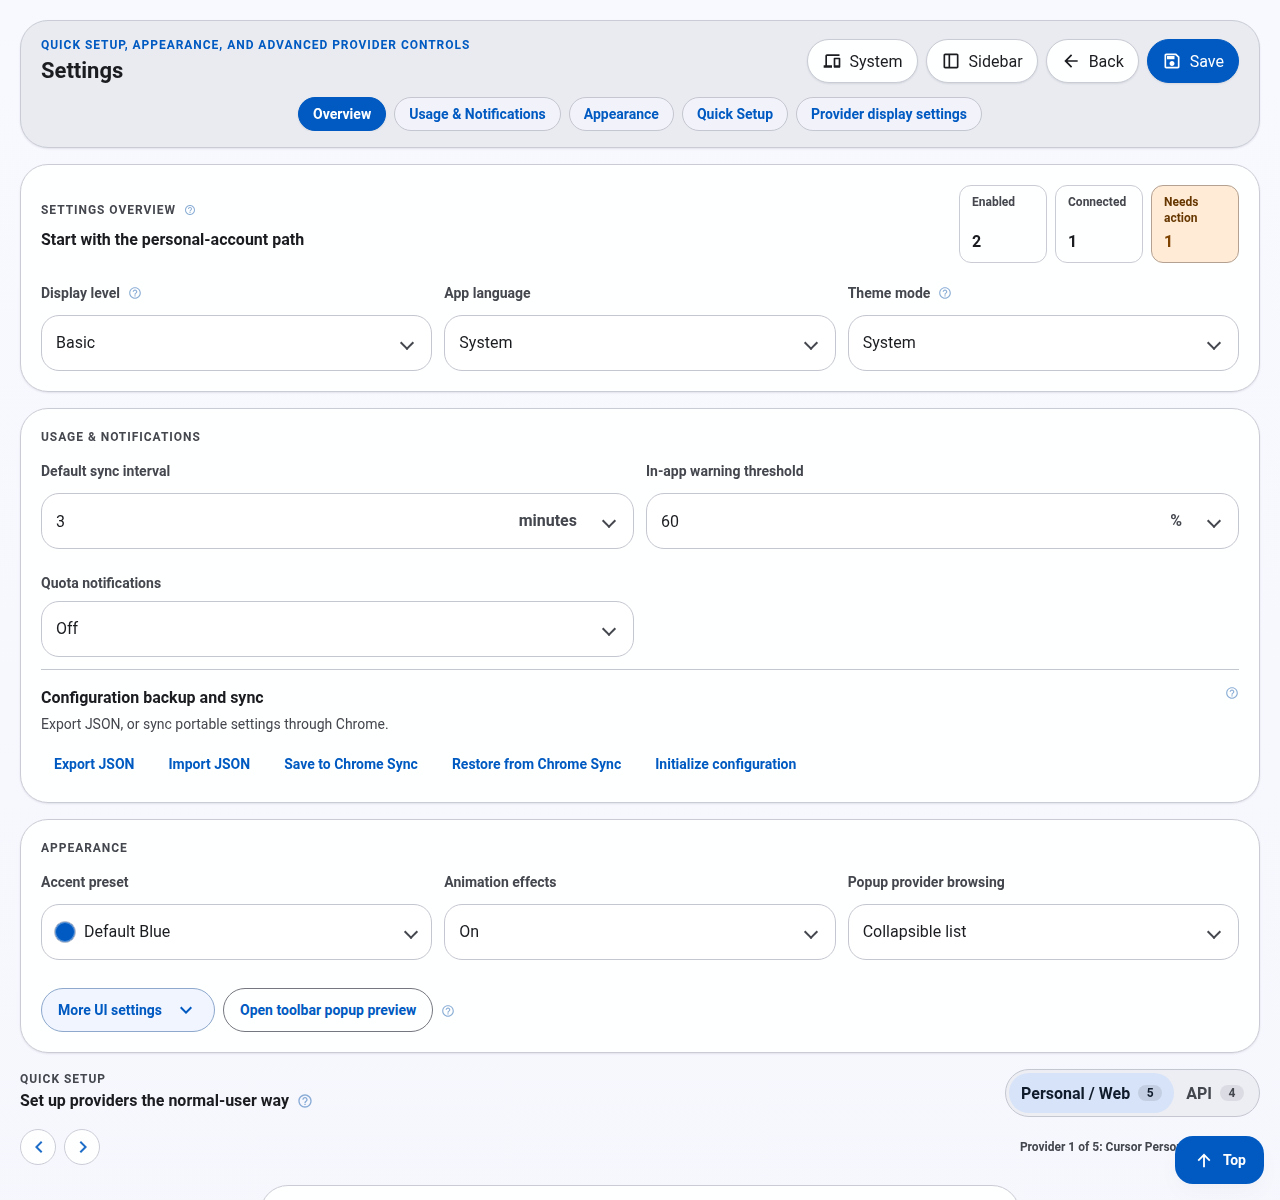
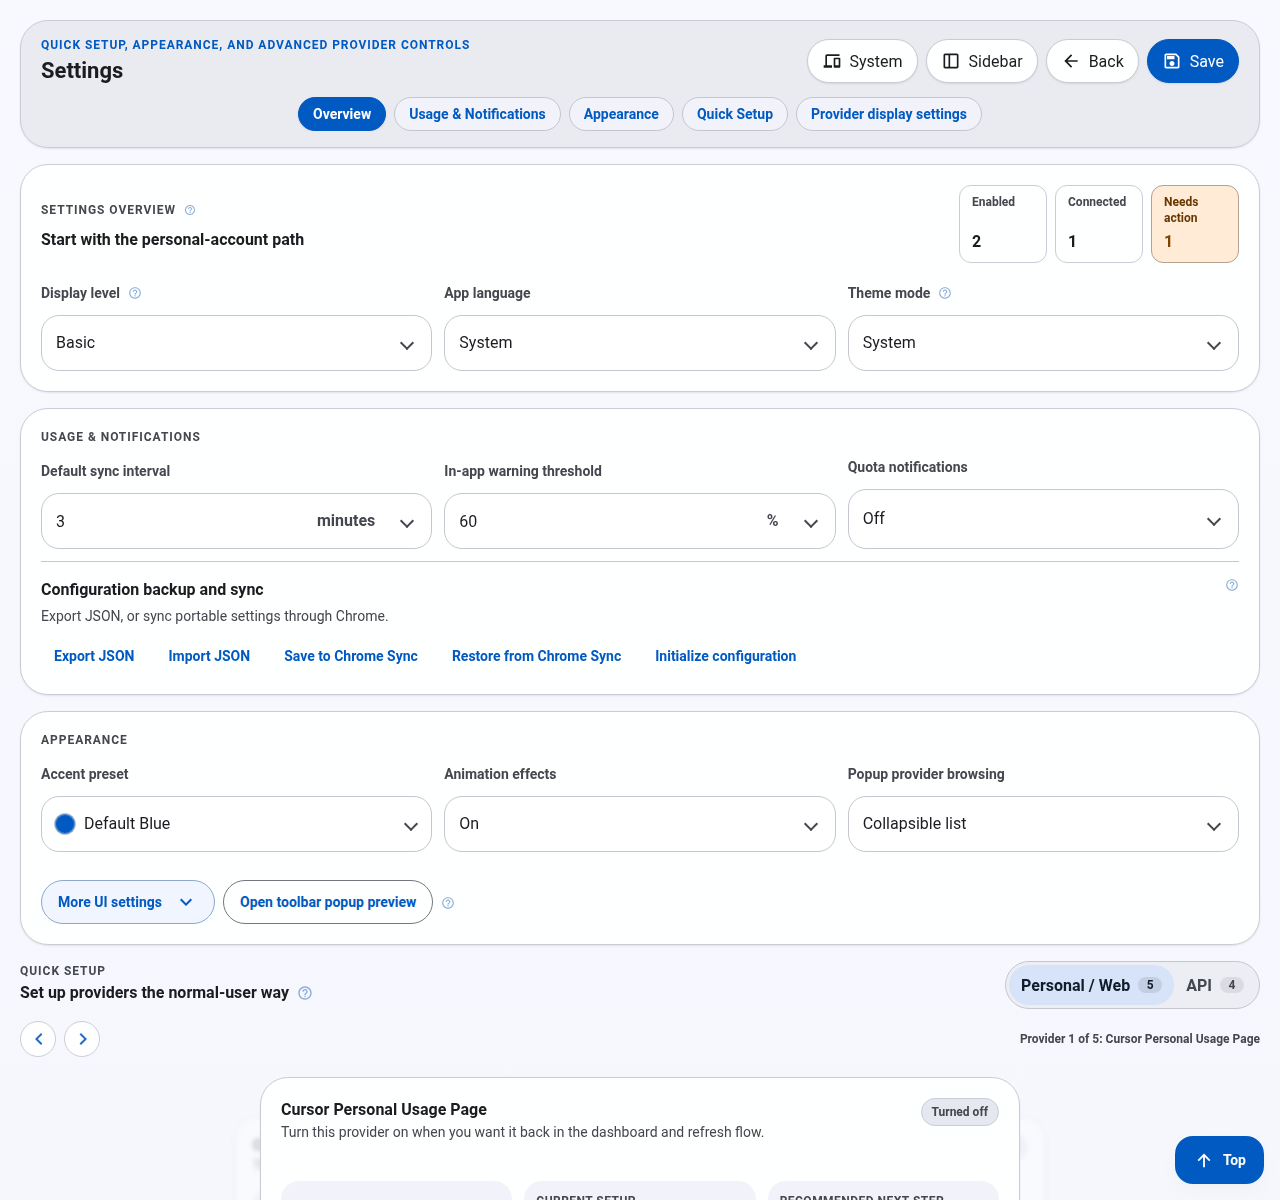
Align usage and notification controls on wide settings

diff --git a/src/sidepanel/theme/settings-navigation.css b/src/sidepanel/theme/settings-navigation.css
@@ -8,6 +8,27 @@
   grid-template-columns: repeat(3, minmax(0, 1fr));
 }
 
+@container settings-shell (min-width: 920px) {
+  .status-card.settings-usage-notifications {
+    grid-template-columns: repeat(3, minmax(0, 1fr));
+  }
+
+  .settings-usage-notifications > .section-label,
+  .settings-usage-notifications > .configuration-backup-controls,
+  .settings-usage-notifications > .quota-notification-settings--embedded > .quota-notification-settings__body,
+  .settings-usage-notifications > .quota-notification-settings--embedded > .quota-notification-settings__status {
+    grid-column: 1 / -1;
+  }
+
+  .settings-usage-notifications > .adaptive-control-grid {
+    grid-column: 1 / 3;
+  }
+
+  .settings-usage-notifications > .quota-notification-settings--embedded > .material-select {
+    grid-column: 3;
+  }
+}
+
 .settings-list {
   display: grid;
   grid-template-columns: minmax(0, 1fr);

diff --git a/src/sidepanel/components/QuotaNotificationSettings.css b/src/sidepanel/components/QuotaNotificationSettings.css
@@ -4,12 +4,7 @@
 }
 
 .quota-notification-settings--embedded {
-  margin-block-start: var(--app-space-3);
-}
-
-.quota-notification-settings--embedded > .material-select {
-  inline-size: calc((100% - var(--app-space-3)) / 2);
-  max-inline-size: 100%;
+  display: contents;
 }
 
 .quota-notification-settings__body {
@@ -174,10 +169,6 @@
 }
 
 @media (max-width: 760px) {
-  .quota-notification-settings--embedded > .material-select {
-    inline-size: 100%;
-  }
-
   .quota-notification-settings__body {
     grid-template-columns: minmax(0, 1fr);
   }

diff --git a/Doc/Product/Provider_Setup_Display_Product_Contract.md b/Doc/Product/Provider_Setup_Display_Product_Contract.md
@@ -210,7 +210,10 @@ the in-app warning threshold, quota notification controls, and configuration
 backup/Chrome Sync. Appearance contains accent color, motion, Popup Provider
 browsing, and More UI settings. The existing `settings-appearance` deep link
 continues to target Appearance; `settings-usage-notifications` targets the new
-module. The two thresholds are independent, both expressed as percent used:
+module. On wide Settings surfaces, sync interval, in-app warning threshold,
+and notification mode share one row; narrow surfaces stack them, and expanded
+notification details occupy the following row. The two thresholds are
+independent, both expressed as percent used:
 the in-app threshold affects page and toolbar warning state, whereas the
 notification threshold determines when system notifications can fire. Moving
 the controls does not migrate or reset either stored value.
